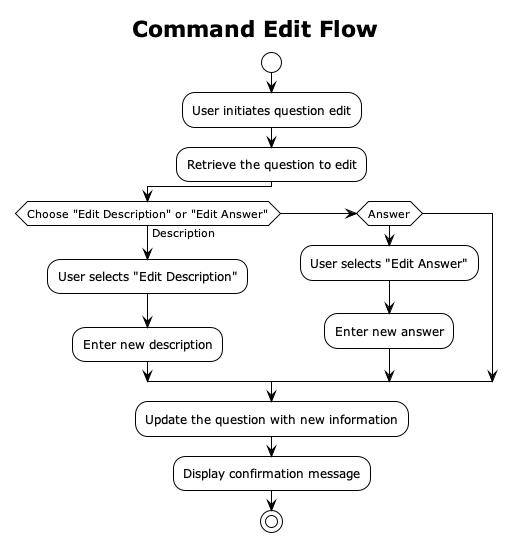
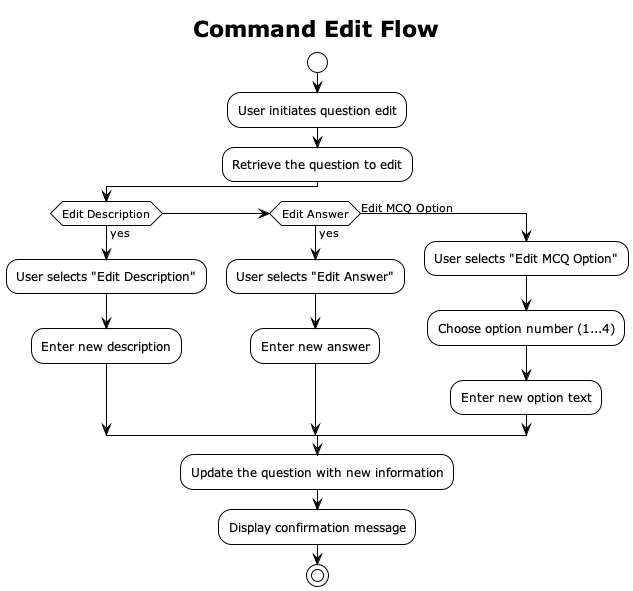
Update edit command DG along with potential bug fixes

Changed region(s): [[0.0, 0.0298, 1.0, 1.0], [0.625, 0.6257, 0.6562, 0.6555]]

diff --git a/docs/DeveloperGuide.md b/docs/DeveloperGuide.md
@@ -270,42 +270,123 @@ new ArrayList of questions, and subsequently print them.
 The CommandEdit class in the quizhub application is responsible for handling user commands to edit the description or 
 answer of a question. The CommandEdit class supports two edit commands: 
 
-- `edit [question number] /description [description]` - edits the description of the question with the specified number
+#### Command Syntax
+- `edit [question number] /description [newDescription]` - Edits the text description of the specified question.
+- `edit [question number] /answer [newAnswer]` - Updates the answer for the specified question.
+- `edit [question number] /option[1...4] [newAnswer]` - Edits a specified option of a multiple-choice question.
 
-- `edit [question number] /answer [answer]` - edits the answer to the question with the specified number
+Special Formatting Notes:
+- Use ` \slash ` instead of the `/` character within the command.
+- The `pipe` character is not allowed and will be automatically removed from any input fields.
+
 
 #### Class Structure of Edit Command
 The CommandEdit class includes the following key components:
 
-- `qnIndex`: An integer representing the question number to be edited.
-- `newDescription`: A string representing the new description for the question (or null if not edited).
-- `newAnswer`: A string representing the new answer for the question (or null if not edited).
+The `CommandEdit` class manages the following attributes:
+- `qnIndex`: The index of the question to be edited.
+- `newDescription`: The new description to be set for the question, if applicable.
+- `newAnswer`: The new answer to be set for the question, if applicable.
+- `newOptions`: An array representing new options for multiple-choice questions, if applicable.
+
+The class collaborates with the `QuestionList` and `Question` classes to update the desired question components.
 
 #### Implementation of Edit Command
 
 ![commandEditStages.png](UML%2FCommands%2FcommandEditStages.png)
-
-Here are the key steps for implementing this class:
-
-- **Parsing User Input**: Parse the user input to extract the question number, edit criteria (/description or /answer), 
-and new values (description or answer).
-
-- **Validation**: Implement validation logic to ensure that the user input is correctly formatted and contains valid 
-information.
-
-- **Edit Operation**: Implement the logic to execute the edit operation based on the provided criteria. This typically 
-involves invoking methods in the QuestionList and Question classes to update the question's description or answer.
-
-- **Data Persistence**: If necessary, update the data storage to save the changes. In the provided code, the 
-`dataStorage.updateData(questions)` method is used to save changes to the question list.
-
-- **Error Handling**: Handle any exceptions or errors that may occur during the edit operation and provide appropriate 
-feedback to the user.
-
 ![commandEditObjectDiagram.png](./UML/Commands/commandEditObjectDiagram.png)
 ![commandEditObjectDiagram2.png](./UML/Commands/commandEditObjectDiagram2.png)
 ![commandEditObjectDiagram3.png](./UML/Commands/commandEditObjectDiagram3.png)
 
+### Operational Flow of Edit Command
+
+1. **User Initiation:**
+    - The user enters the `edit` command along with the question number and either a new description or answer into the QuizHub application.
+
+2. **Command Parsing:**
+    - QuizHub passes the user input to the `Parser` component to interpret the command.
+    - The `Parser` creates an instance of `CommandEdit` and invokes the `parseEditCommand` method with the user's input.
+
+3. **Command Execution:**
+    - Once the command is parsed, `Parser` returns the `CommandEdit` object to QuizHub.
+    - QuizHub calls the `executeCommand` method on the `CommandEdit` instance, providing the necessary UI, data storage, and question list.
+
+4. **Editing Process:**
+    - `CommandEdit` communicates with `QuestionList` to locate the specific question by index.
+    - `QuestionList` then calls the `editQuestion` method on the relevant `Question` instance, passing the new description or answer.
+
+5. **Question Modification:**
+    - The `Question` object updates its state with the new information provided.
+    - Upon successful update, `Question` notifies `QuestionList` of the edit completion.
+
+6. **Completion Acknowledgement:**
+    - `QuestionList` sends an acknowledgment back to `CommandEdit` confirming the completion of the edit operation.
+
+7. **User Feedback:**
+    - `CommandEdit` reports back to QuizHub that the editing process is complete.
+    - QuizHub then communicates the successful edit to the user via the UI.
+
+8. **Resource Cleanup:**
+    - After the edit is complete and the user has been notified, the `CommandEdit` object is destroyed to free up resources.
+
+Each step in the flow ensures that the user's request to edit a question is processed accurately and efficiently, with the system providing feedback at the end of the operation.
+
+#### User Interaction Examples
+- Editing the description of a question:
+    - Command: `edit 1 /description What is the value of Pi to 3 decimal places?`
+    - Output: Acknowledgment that the question has been edited.
+- Updating the answer to a question:
+    - Command: `edit 1 /answer 3.142`
+    - Output: Confirmation message with the updated question details.
+- Changing an MCQ option:
+    - Command: `edit 3 /option1 2.713`
+    - Output: Confirmation message with the updated MCQ question details.
+
+#### Notes for Developers
+- The application restricts edits to one attribute of the question at a time.
+- Validation checks must be robust to handle user errors and prevent incorrect data entry.
+- Special character rules must be enforced to maintain command syntax integrity.
+
+#### Expected Invalid Input for Command Edit
+Assuming 2 current questions: <br>
+1: [S][ ] question / answer | number | EASY <br>
+2: [M][ ] question2 / 1 / 2 / 3 / 4 / 1 | number | EASY
+- `edit 999 /description New description`
+  - Ono! The question index you entered is not in the range of the question list :<
+    Please format your input as:
+    edit [question number] /description [new description] or /answer [new answer]! for short answer questions and
+    edit [question number] /description [new description] or /answer [new answer] or /option[number] [new value] for multiple choice questions
+  - Reason: Invalid question number (out of range)
+- `edit two /answer New answer`
+  - Please enter valid integer question index!
+    Please format your input as:
+    edit [question number] /description [new description] or /answer [new answer]! for short answer questions and
+    edit [question number] /description [new description] or /answer [new answer] or /option[number] [new value] for multiple choice questions
+  - Reason: Non-numeric question number not allowed for this program
+- `edit 1/description` or `edit 1/answer`
+  - Ono! You did not enter the new value :<
+    Please format your input as:
+    edit [question number] /description [new description] or /answer [new answer]! for short answer questions and
+    edit [question number] /description [new description] or /answer [new answer] or /option[number] [new value] for multiple choice questions
+  - Reason: No changes specified
+- `edit 1 /description New description /answer New answer`
+  - Ono! You tried to edit using more than 1 question fields :<
+    Please format your input as:
+    edit [question number] /description [new description] or /answer [new answer]! for short answer questions and
+    edit [question number] /description [new description] or /answer [new answer] or /option[number] [new value] for multiple choice questions
+  - Reason: Multiple edits in one command is not allowed
+- `edit 1 /answer \exitquiz`
+  - TBC ~ Fixing
+  - should not allow \exitquiz to be an answer field
+- `edit 2 /option5 New option`
+  - Ono! You tried to edit by an unknown criteria :<
+    Please format your input as:
+    edit [question number] /description [new description] or /answer [new answer]! for short answer questions and
+    edit [question number] /description [new description] or /answer [new answer] or /option[number] [new value] for multiple choice questions
+  - Reason: Limited to only option1-4
+- `edit 2/ option4 1.9` or `edit 1 / description New de`
+  - TBC ~ Fixing
+  - white space after / is not ignored
 <hr>
 
 ### Start Command - Start Quiz
@@ -315,7 +396,7 @@ feedback to the user.
 The start quiz feature allows users to start quizzing themselves with customizable characters to define which modules
 to quiz themselves on alongside whether to randomize the questions or use their pre-defined question order.
 
-Command Syntax:
+#### Command Syntax
 - `start /[quiz mode] [start details] /[qn mode] /[qn type]`
 
 #### Sequence Diagram of Start Command
@@ -438,7 +519,9 @@ Assuming 2 current questions: <br>
     Please format your input as start /[quiz mode] [start details] /[qn mode] /[qn type]!
   - Reason: Extra parameters are given - hence too many arguments
 - `start /module number /normal /mix \exitquiz`
-  - TBC
+  - Invalid command: Extra input detected after question type.
+    Question type must be '/short', '/mcq', or '/mix'
+  - Reason: Extra input after qn type is not allowed
 
 <hr>
 
@@ -448,7 +531,7 @@ Assuming 2 current questions: <br>
 The Shuffle command in QuizHub is designed to **PERMANENTLY** randomize the order of questions within the question list.
 This contrasts with the temporary randomization available in the Start Command's /random mode.
 
-Command Syntax:
+#### Command Syntax
 - `shuffle` 
 
 #### Class Structure of Shuffle Command
@@ -494,7 +577,7 @@ Command Syntax:
 The CommandMarkDifficulty class within the QuizHub application facilitates the marking of questions with a difficulty level. 
 This feature allows for the categorization of questions by difficulty, aiding in targeted quiz preparation.
 
-Command Syntax
+#### Command Syntax
 - `markdiff [question number] /[question difficulty]`
 
 #### Class Structure of Markdiff Command
@@ -571,6 +654,8 @@ Assuming 2 current questions: <br>
 #### Brief Description of Command Exit
 
 Command Exit is responsible for exiting the program
+
+#### Command Syntax
 - `bye` - to exit program
 
 #### Expected Invalid Commands for Command Exit
